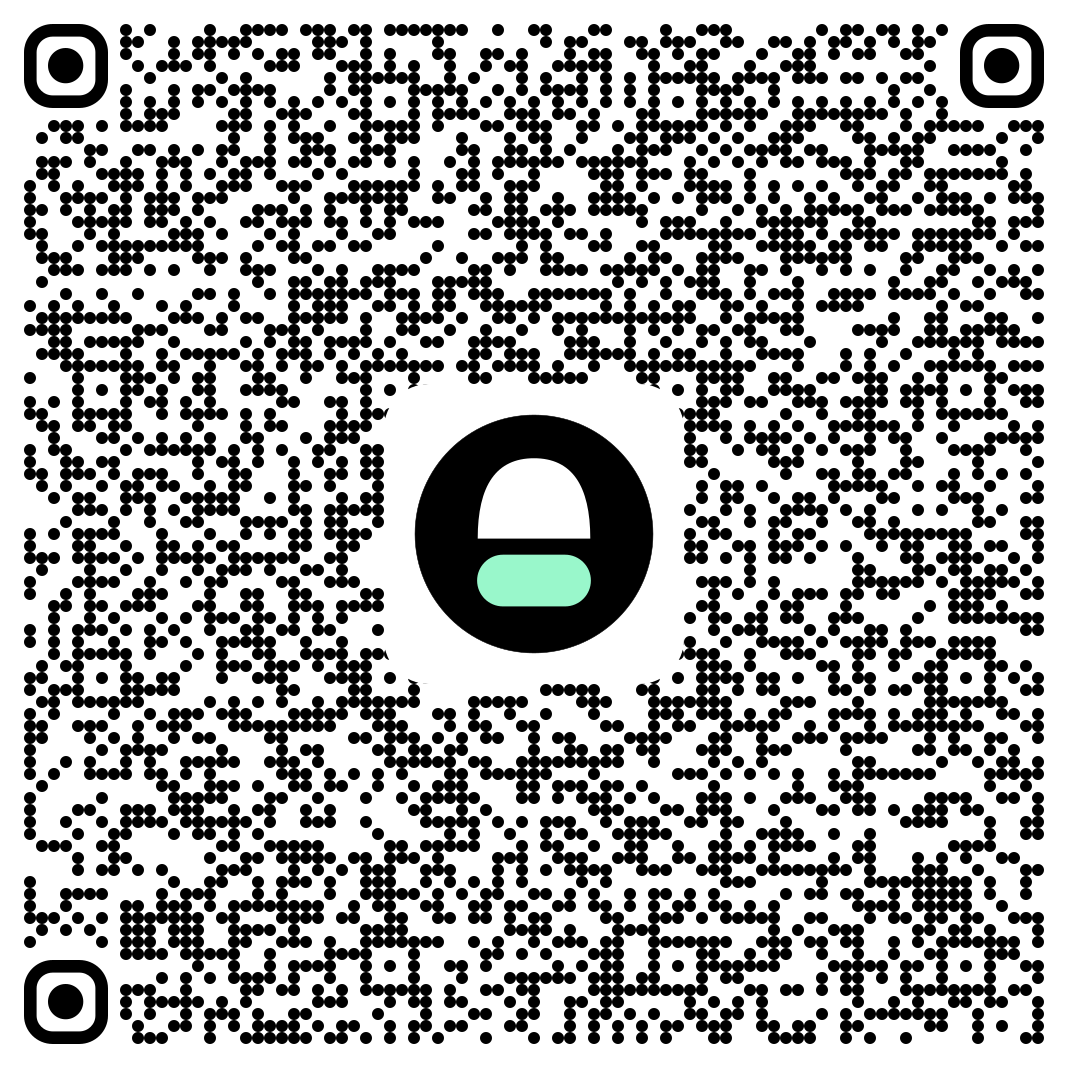
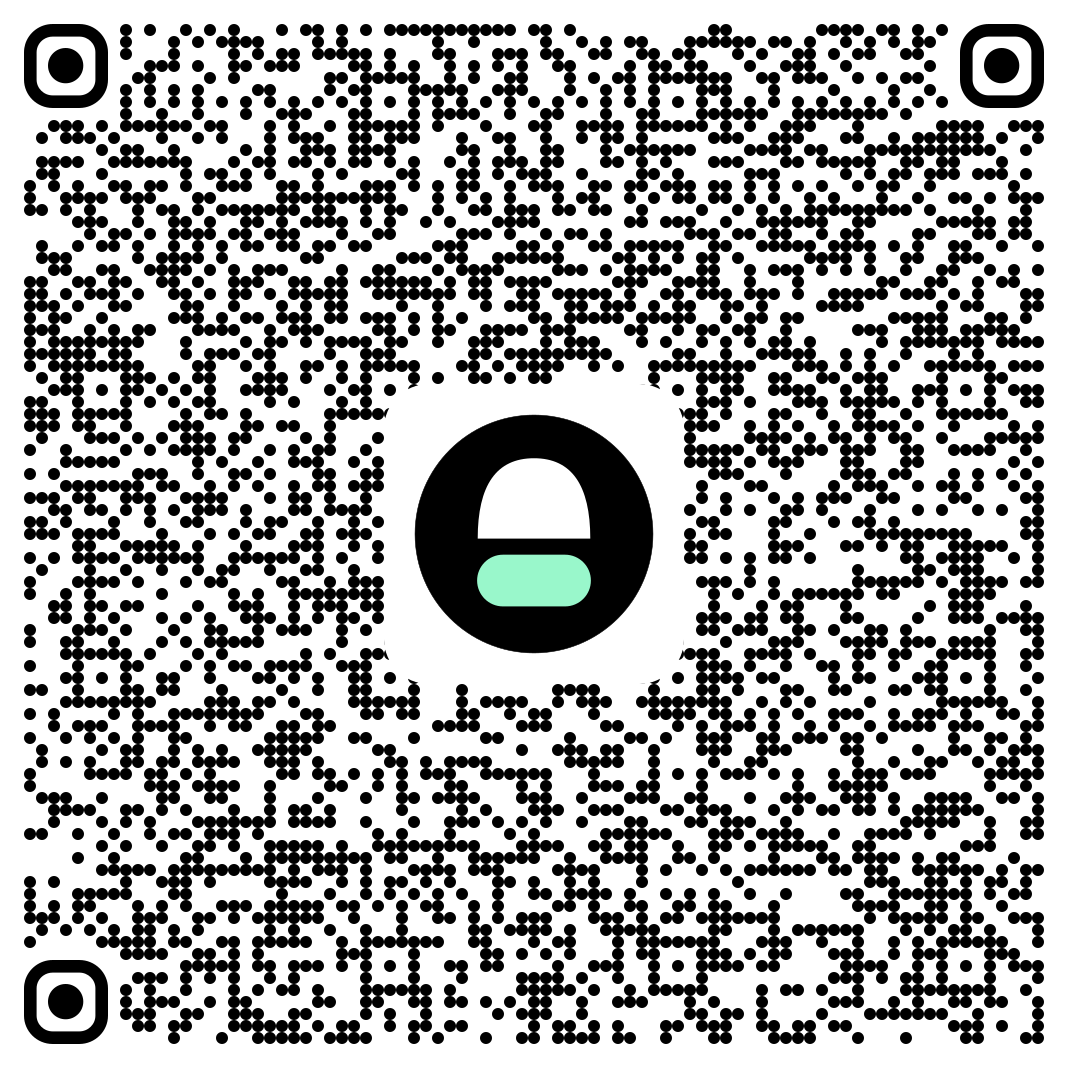
Update example job gq and qr code (#23)

diff --git a/app/[lang]/(marketing)/page.tsx b/app/[lang]/(marketing)/page.tsx
@@ -68,7 +68,7 @@ export default async function IndexPage({ params: { lang } }) {
                   <Link
                     className="portrait:w-8/12"
                     target="_blank"
-                    href="https://embloy.com/sdk/apply?gq=eyJhbGciOiJIUzI1NiJ9°eyJzdWIiOjEsImV4cCI6MTcyODcyNjUxNSwianRpIjoiMmY1NjM1ZDQ4Y2I2YjU3ZGM1YzJkN2VlY2IyZTk3NGMiLCJpYXQiOjE3MjYwOTY3NjksImpvYl9pZCI6IjIwIiwiaXNzIjoiYXBpLmVtYmxveS5jb20ifQ°1dbyRkPEQwQg-xpzt2cfRiqLaT36YmnB4yyQM-eilrE"
+                    href="https://embloy.com/sdk/apply?gq=eyJhbGciOiJIUzI1NiJ9°eyJzdWIiOjEsImV4cCI6MTc2MjgwMTkwNywianRpIjoiMDc3MzZiNTBmNDlkYTU0N2VkNmQxZTg1NDU4MmU0ZWMiLCJpYXQiOjE3MzEyNDQ5NTYsImpvYl9pZCI6IjIwIiwiaXNzIjoiYXBpLmVtYmxveS5jb20ifQ°V7Ml5yWk0xdbq6dE5B3NbHPv6y5O3VnIOkVZS9dVfyQ"
                   >
                     <Image
                       src="https://embloy.com/images/button-black_large.svg"
